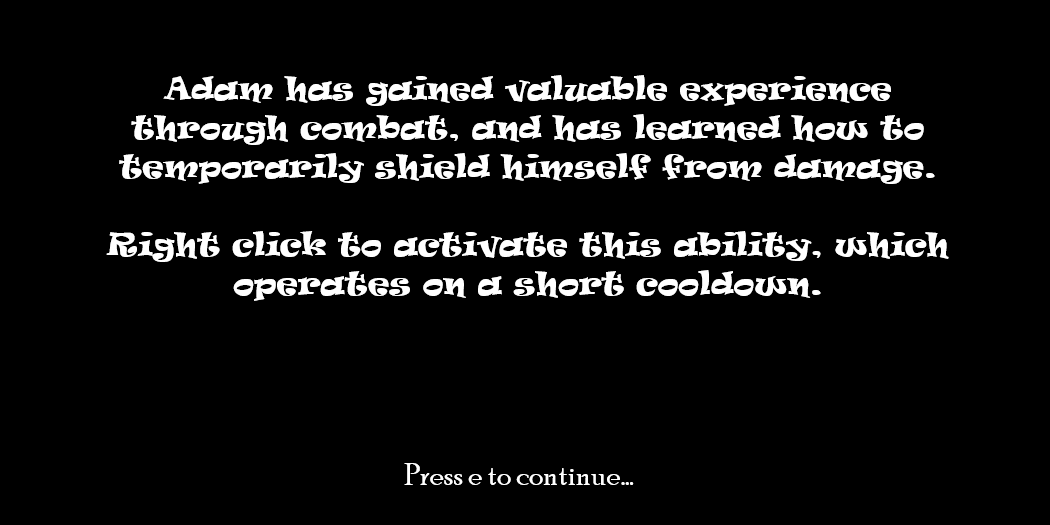
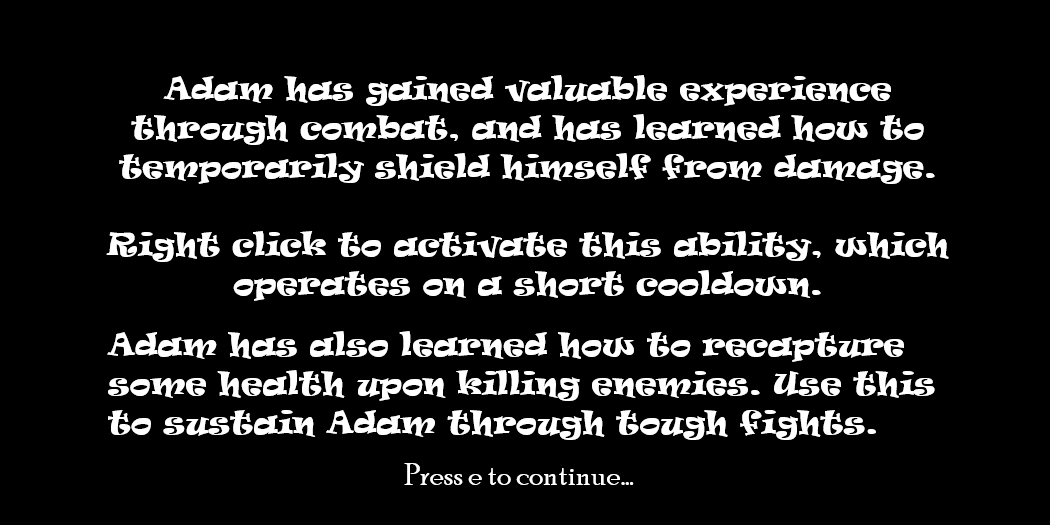
Fight complete, just need pre and post dialogues

Changed region(s): [[0.0914, 0.6095, 0.9143, 0.8533]]

diff --git a/Core.py b/Core.py
@@ -229,15 +229,20 @@ class eve(robber):
                     self.last_attack = py.time.get_ticks()
             return proj
     
-    def rockfall(self):
+    def rockfall(self, img=0):
         proj = -1
         
         if not self.dead:
             att = random.random()
             
             if att <= self.att_rate and py.time.get_ticks() - self.last_rockfall > 500:
-                proj = falling_rock(self.window, self.hero.x, 50, 4, 1, player=False, 
-                                    image = "boulder", num_frames = 1)
+                if img == 0:
+                    proj = falling_rock(self.window, self.hero.x, 50, 4, 1, player=False, 
+                                        image = "boulder", num_frames = 1)
+                else:
+                    proj = falling_rock(self.window, self.hero.x, 50, 4, 1, player=False, 
+                                        image = 'bld_' + str(img), num_frames = 1)
+                
                 self.last_rockfall = py.time.get_ticks()
         return proj
     def move(self):
@@ -264,6 +269,8 @@ class king(eve):
         self.idle_img = py.image.load(os.path.join('sprites', 'king_idle.png'))
         self.idle = True
         self.attack_timer = 2000
+        
+        
         
         self.attacking = False      
         self.attack_animation = [py.image.load(os.path.join('sprites', 'king_lunge_' + str(i) + '.png')) for i in range(1,5)]
@@ -312,8 +319,7 @@ class king(eve):
     
     def jump(self):
         self.is_jump = False
-        
-    #TODO: Add code for his lunge attack, he will be melee only with mobs
+    
 class wizard(object):
     
     sequence = [1,1,1,1,1,1,1, 2,2,2,2,2,2,2, 3,3,3,3,3,3,3, 4,4,4,4,4,4,4, 3,3,3,3,3,3,3, 2,2,2,2,2,2,2]

diff --git a/CryptoGame.py b/CryptoGame.py
@@ -747,6 +747,12 @@ def scene_five(window, clock, speed):
             if robber.hp <= 0:
                 robber.dead = True
                 dead_robbers.append(robber)
+                
+                if player.hp < 100:
+                    if player.hp + 15 > 100:
+                        player.hp = 100
+                    else:
+                        player.hp += 15
             robber.move()
         
         for robber in dead_robbers:
@@ -822,6 +828,8 @@ def scene_six(window, clock, speed):
     success = True
     king.aggro = True
     king.idle = False
+    
+    rock_count = 1
     last_spawn = py.time.get_ticks()
     run = True
     
@@ -856,7 +864,7 @@ def scene_six(window, clock, speed):
                 robber.dead = True
                 dead_robbers.append(robber)
                 if player.hp < 100:
-                    if player.hp + 20 > 100:
+                    if player.hp + 15 > 100:
                         player.hp = 100
                     else:
                         player.hp += 15
@@ -934,8 +942,19 @@ def scene_six(window, clock, speed):
             king.idle = False
             king.aggro = True
             draw_health(window, king, king = True)
-            rock = king.rockfall()
             
+            if rock_count < 5:
+                
+                rock = king.rockfall(rock_count)
+                if rock != -1:
+                    rock_count += 1
+            elif rock_count > 8:
+                rock_count = 1
+                rock = king.rockfall()
+            else:
+                rock = king.rockfall()
+                if rock != -1:
+                    rock_count += 1
             if rock != -1:
                 projectiles.append(rock)
             
